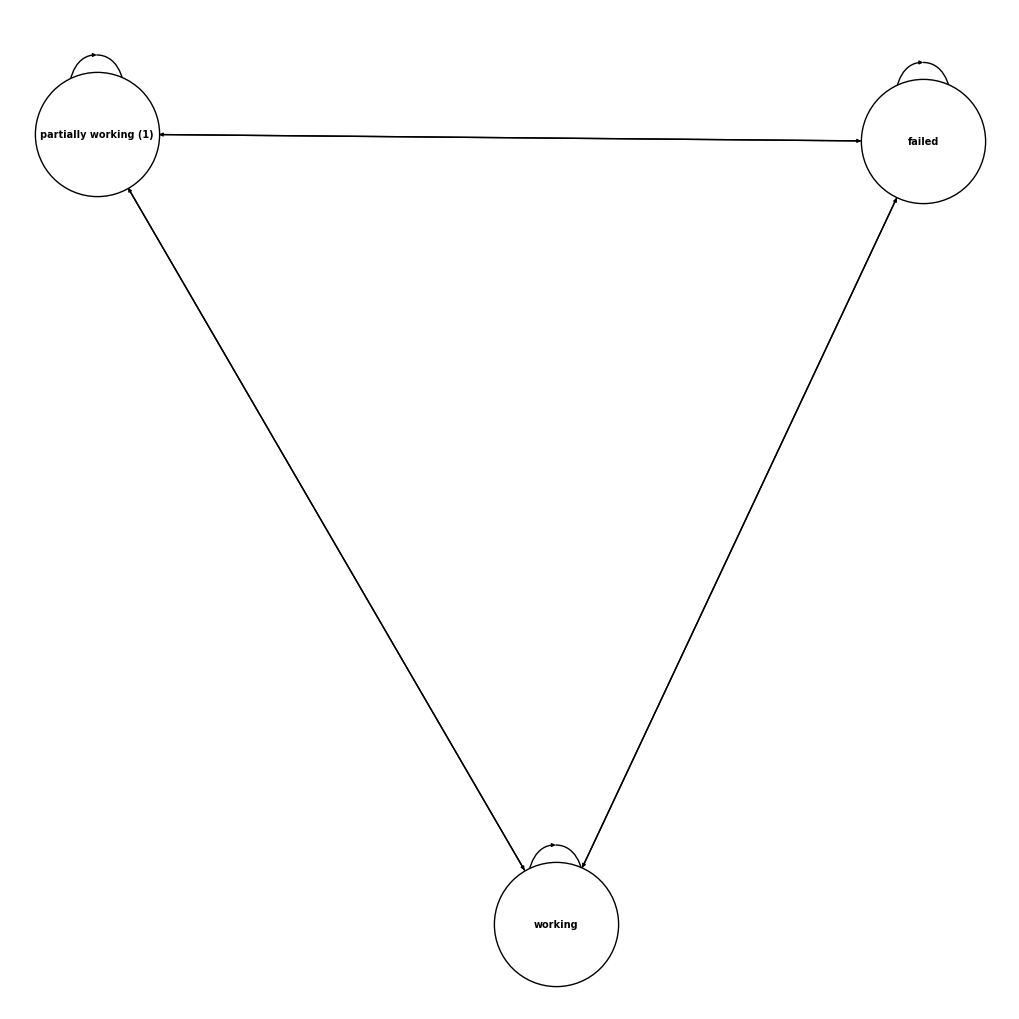
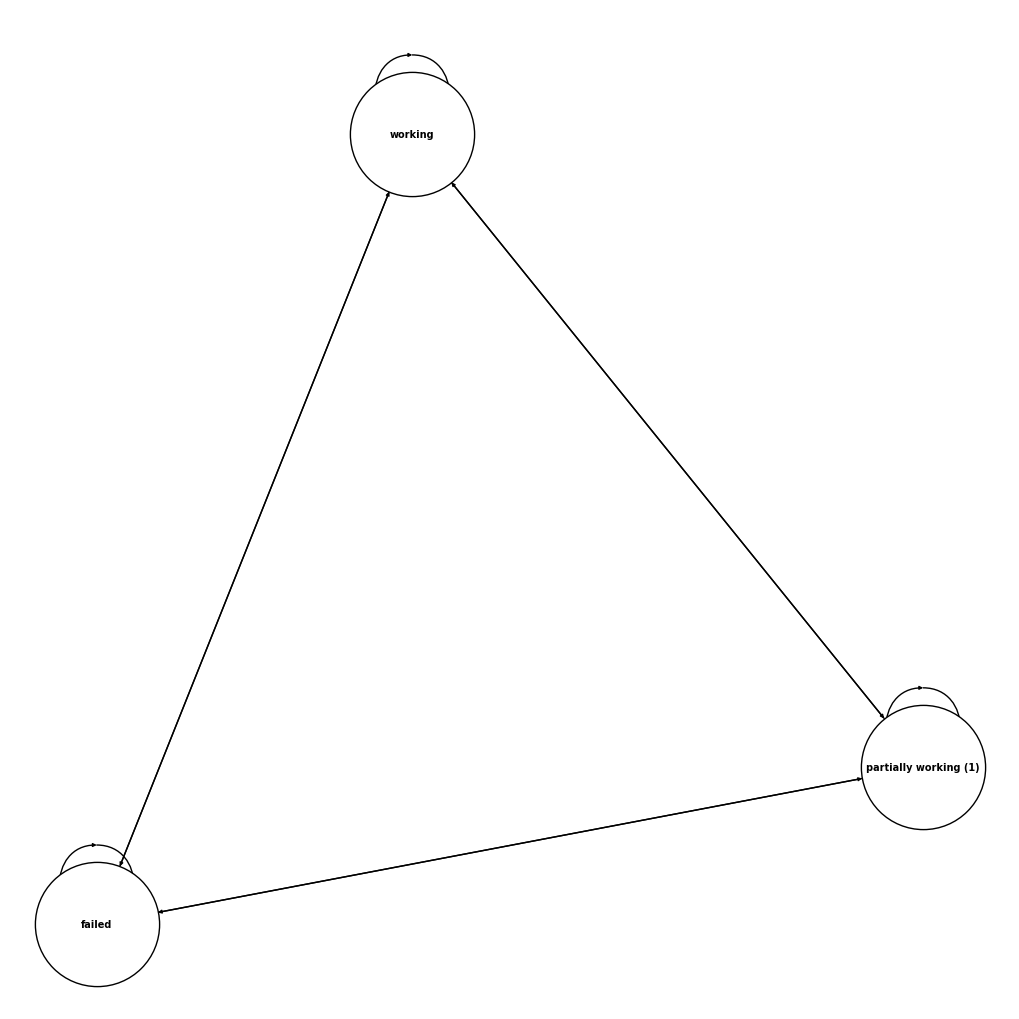
adding some graphing ability to sensed comp

diff --git a/Prop_Sims/shipModel/sensedComp.py b/Prop_Sims/shipModel/sensedComp.py
@@ -37,8 +37,8 @@ class sensedComp:
         self.sensors = sensors_list     # default is two "good" sensors
         self.defineMarkovModel()
 
+
     # ---------------------------------------------------------------------
-    
     def defineMarkovModel(self)->None:
         """
         Creates a new markov chain model for the sensedComp using the components 
@@ -50,13 +50,9 @@ class sensedComp:
         self.createNewStates()
         self.createTransitionMatrix()
 
-        # # use states and transition matrix to define the markov model
-        # self.markov_model = markovChain(len(self.state_space), self.transition_matrix)
-        # self.markov_model.state_space = self.state_space  
-
-        # # determine the probability that majority of the sensors are working
-        # sensor_state, sensor_state_prob = self.checkSensors()
-        # comp_state, comp_state_prob = self.comp.state, self.comp.state_prob
+        # use states and transition matrix to define the markov model
+        self.markov_model = markovChain(len(self.state_space), self.transition_matrix)
+        self.markov_model.state_space = self.state_space  
 
     # ---------------------------------------------------------------------
     def createNewStates(self):
@@ -87,10 +83,17 @@ class sensedComp:
         self.checkSensors() # function to aggregate sensor states
 
         # iterate over all possible cases of sensor and component states
-        i,j = self.transition_matrix.shape
-        for i in range(i):
-            for j in range(j):
-                self.transition_matrix[i,j] = 6
+        # i,j = self.transition_matrix.shape
+        # for i in range(i):
+        #     for j in range(j):
+
+        # temp transition matrix 6x6
+        transition_matrix = np.array([[0.98, 0.01, 0.01, 0.0, 0.0, 0.0],
+                                      [0.98, 0.01, 0.01, 0.0, 0.0, 0.0],
+                                      [0.98, 0.01, 0.01, 0.0, 0.0, 0.0],
+                                      [0.98, 0.01, 0.01, 0.0, 0.0, 0.0],
+                                      [0.98, 0.01, 0.01, 0.0, 0.0, 0.0],
+                                      [0.98, 0.01, 0.01, 0.0, 0.0, 0.0]])
 
 
     # ---------------------------------------------------------------------
@@ -121,7 +124,11 @@ class sensedComp:
 
     # ---------------------------------------------------------------------
     def setInitialState(self):
-        pass
+        # determine the probability that majority of the sensors are working
+        sensor_state, sensor_state_prob = self.checkSensors()
+        comp_state, comp_state_prob = self.comp.state, self.comp.state_prob
+
+
         # # choose initial state based on component
         # if sensor_state == 0:
         #     self.state = comp_state

diff --git a/Prop_Sims/shipModel/markovChain.py b/Prop_Sims/shipModel/markovChain.py
@@ -52,9 +52,9 @@ class markovChain:
         if transition_matrix.shape[0] != transition_matrix.shape[1]:
             raise ValueError("The transition matrix must be square.")
         
-        # CHECK1: the sum of each row should be 1
-        if not np.allclose(transition_matrix.sum(axis=1), 1):
-            raise ValueError("The sum of each row should be 1.")
+        # # CHECK1: the sum of each row should be 1
+        # if not np.allclose(transition_matrix.sum(axis=1), 1):
+        #     raise ValueError("The sum of each row should be 1.")
 
         # CHECK2: all values should be between 0 and 1
         if not np.all((transition_matrix >= 0) & (transition_matrix <= 1)):
